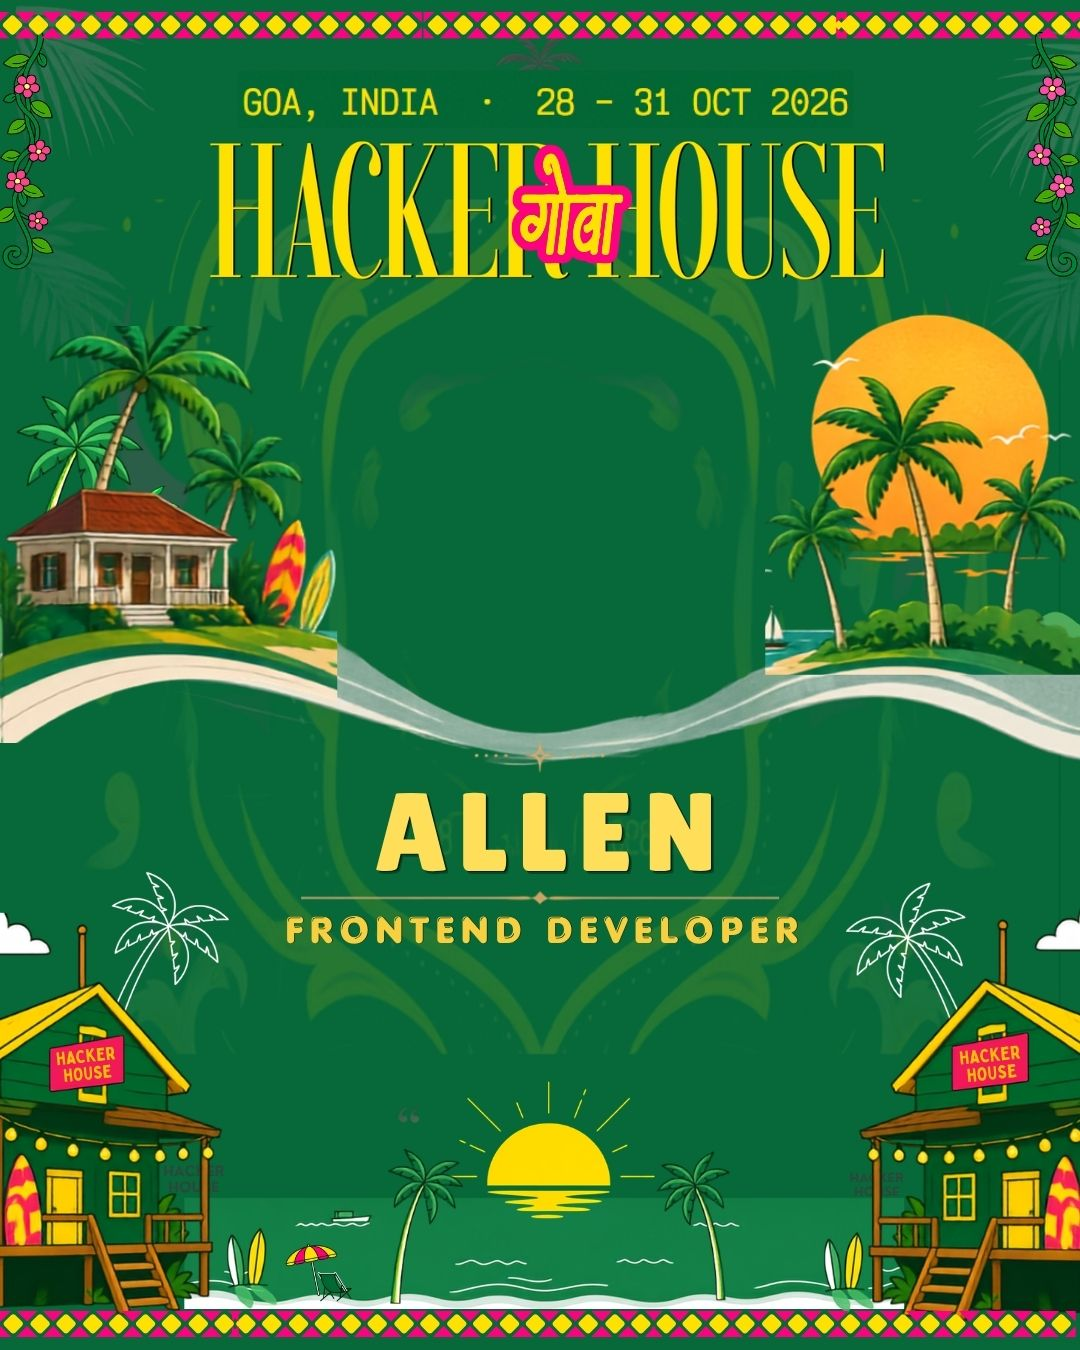
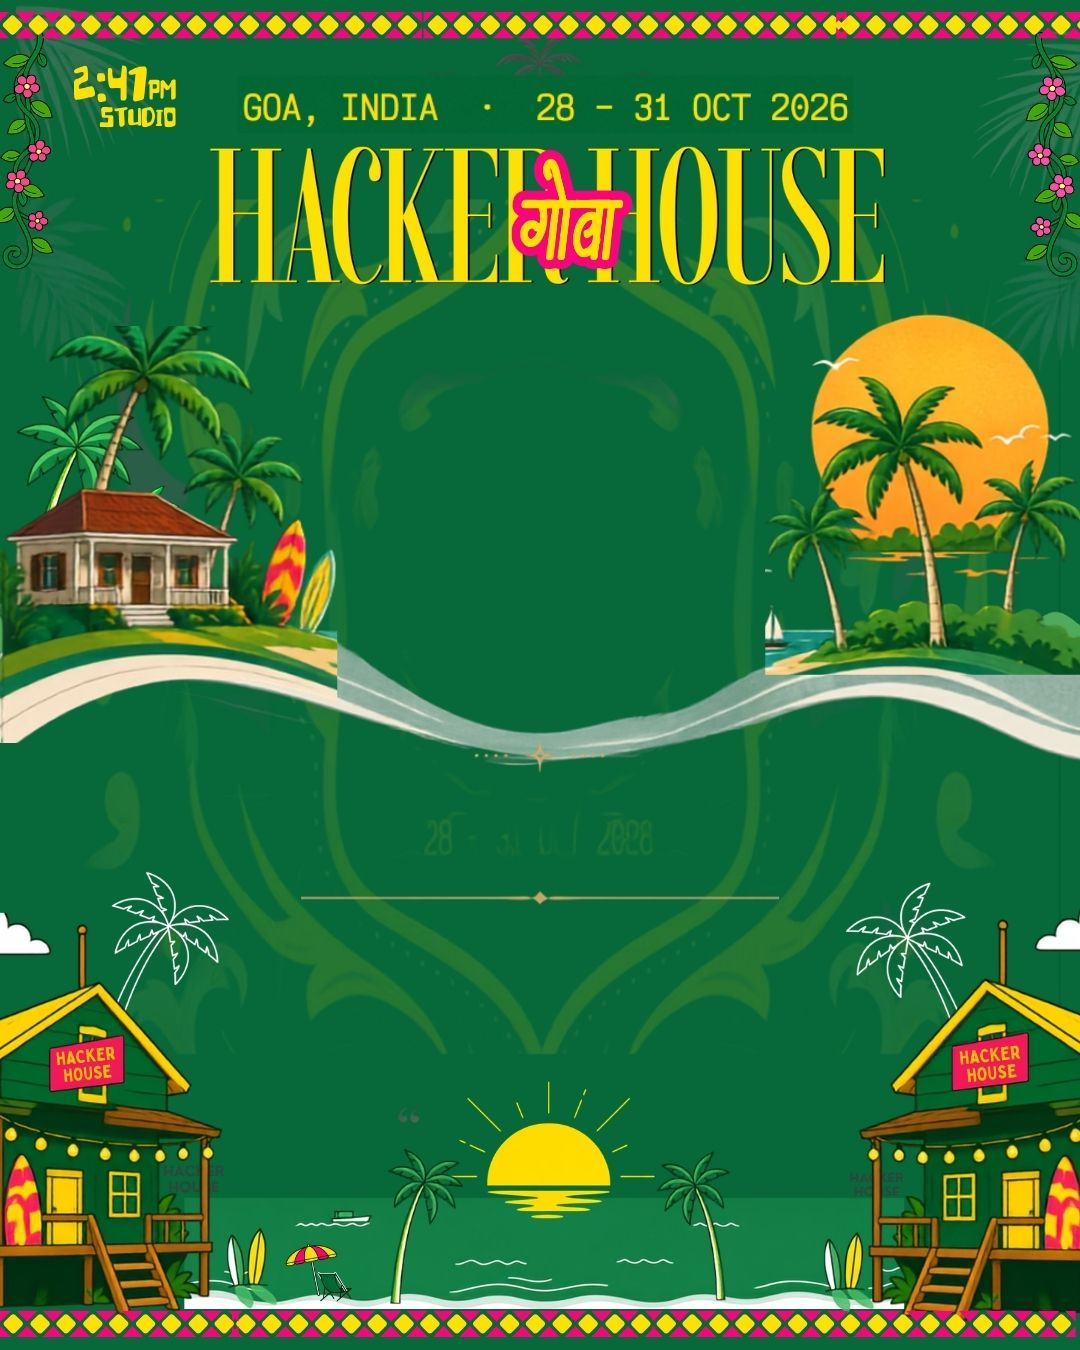
font issues resolved

Changed region(s): [[0.1833, 0.0622, 0.825, 0.2178], [0.2444, 0.56, 0.7333, 0.7156], [0.0611, 0.0311, 0.1833, 0.0933]]

diff --git a/src/config.js b/src/config.js
@@ -52,9 +52,9 @@ module.exports = {
     cardWidth: 708,
     divider1Y: 928,
     divider2Y: 1019,
-    title: { y: 805, font: 'italic bold 26px "Georgia"', color: '#7A1FA2' },     // "Terminal Wizard"
-    name: { yStart: 862, font: 'bold 42px "Arial"', color: '#1B1B1B', lineHeight: 50 },
-    role: { y: 978, font: 'bold 30px "Arial"', color: '#7A4A00' },
+    title: { y: 855, font: 'italic bold 28px "Georgia"', color: '#00ffd0ff' },     // builder tag — purple, above divider wave
+    name: { yStart: 985, font: 'bold 56px "Arial"', color: '#F2C744', lineHeight: 90 },  // pushed below divider1Y=928 so wave line never crosses text
+    role: { y: 1060, font: 'bold 50px "Arial"', color: '#f4c12aff' },                    // 50px matches old baked-in FRONTEND DEVELOPER size
   },
 
   STORAGE_TTL_MS: 1000 * 60 * 60 * 24, // 24h — generated cards auto-expire
